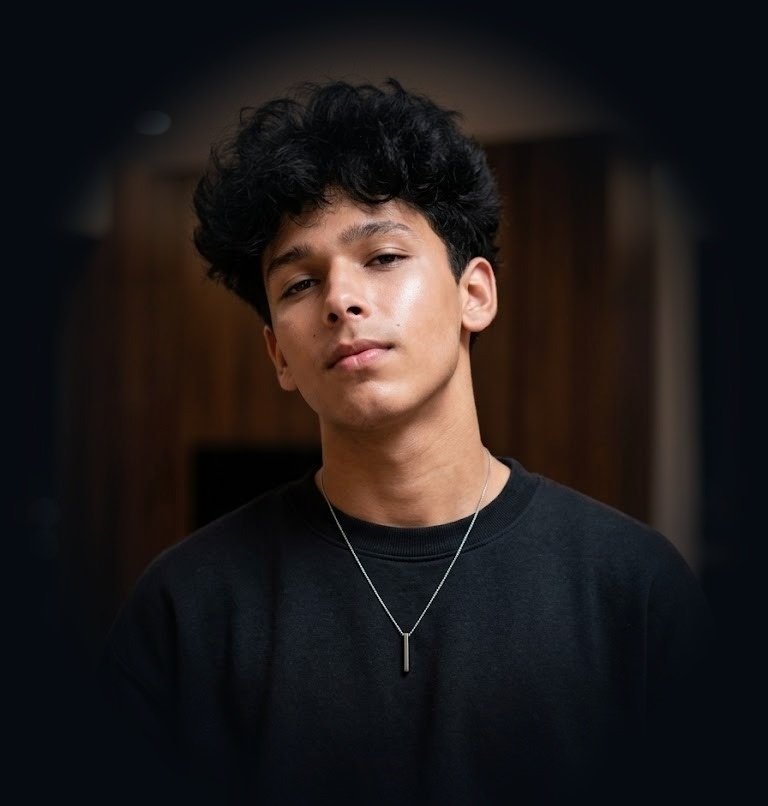
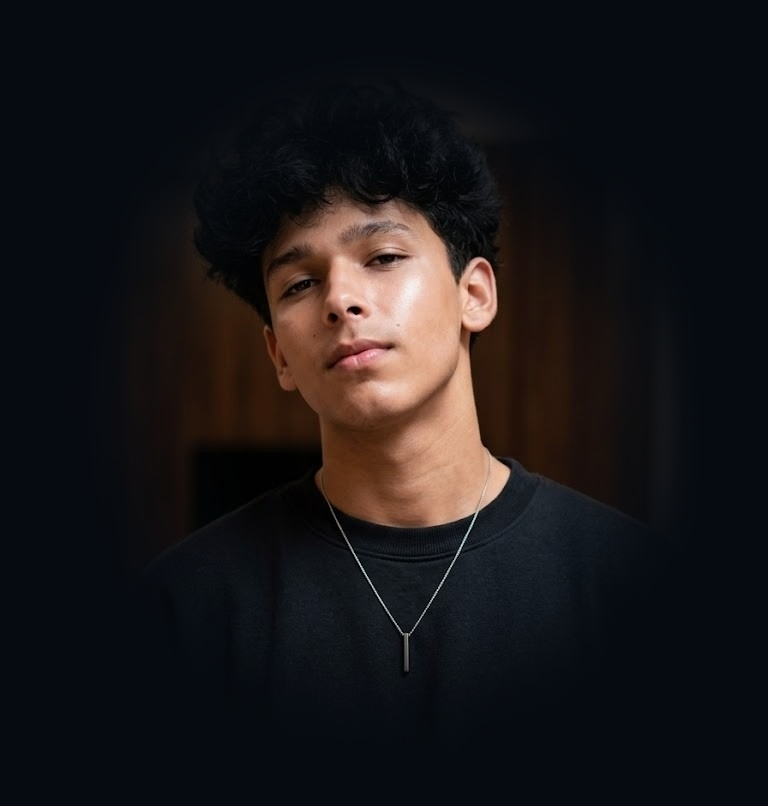
Render 100% seamless dark theme profile photo uday_profile_perfect.png

diff --git a/src/components/AboutSection.jsx b/src/components/AboutSection.jsx
@@ -48,24 +48,16 @@ export default function AboutSection() {
               {/* Glowing Neon Green Dual Ring Circle Frame (480px x 480px) */}
               <div className="relative w-[310px] h-[310px] sm:w-[420px] sm:h-[420px] lg:w-[480px] lg:h-[480px] rounded-full p-2.5 bg-gradient-to-b from-[#00FF9D] via-emerald-500/40 to-transparent shadow-[0_0_90px_rgba(0,255,157,0.45)] transition-all duration-500 hover:scale-[1.02] hover:shadow-[0_0_110px_rgba(0,255,157,0.6)] group">
                 
-                {/* Inner Circular Portrait Window */}
+                {/* Inner Circular Portrait Window (Pure #060B11 Dark Background) */}
                 <div className="w-full h-full rounded-full overflow-hidden border-2 border-emerald-400/50 relative shadow-2xl bg-[#060B11]">
                   
-                  {/* Photo inside Large Circular Window */}
+                  {/* Perfect Seamless Dark Theme Profile Photo */}
                   <img
-                    src="/uday_profile.jpg"
-                    onError={(e) => { e.target.src = '/uday_profile_dark.jpg' }}
+                    src="/uday_profile_perfect.png"
+                    onError={(e) => { e.target.src = '/uday_profile.jpg' }}
                     alt="Uday Singh Portrait"
-                    className="w-full h-full object-cover object-center filter brightness-[0.98] contrast-[1.08] transition-transform duration-700 group-hover:scale-105"
+                    className="w-full h-full object-cover object-center filter brightness-[1.02] contrast-[1.06] transition-transform duration-700 group-hover:scale-105"
                   />
-
-                  {/* Dark Vignette Radial Overlay */}
-                  <div
-                    className="absolute inset-0 rounded-full pointer-events-none z-10"
-                    style={{
-                      background: 'radial-gradient(circle at 50% 45%, transparent 35%, rgba(6, 11, 17, 0.45) 65%, rgba(6, 11, 17, 0.95) 90%, #060B11 100%)',
-                    }}
-                  ></div>
 
                   {/* Bottom Smooth Dark Gradient Blend */}
                   <div className="absolute inset-x-0 bottom-0 h-32 bg-gradient-to-t from-[#060B11] via-[#060B11]/80 to-transparent pointer-events-none z-20"></div>
@@ -85,7 +77,7 @@ export default function AboutSection() {
 
           </motion.div>
 
-          {/* COLUMN 2 (RIGHT): Bio Text (Updated Exact User Wording), Highlights & Superpower Badge */}
+          {/* COLUMN 2 (RIGHT): Bio Text, Highlights & Superpower Badge */}
           <motion.div
             initial={{ opacity: 0, x: 30 }}
             whileInView={{ opacity: 1, x: 0 }}

diff --git a/src/components/Hero.jsx b/src/components/Hero.jsx
@@ -127,27 +127,19 @@ export default function Hero() {
             {/* Glowing Neon Green Dual Ring Circle Frame */}
             <div className="relative w-[290px] h-[290px] sm:w-[380px] sm:h-[380px] lg:w-[440px] lg:h-[440px] rounded-full p-2 bg-gradient-to-b from-[#00FF9D] via-emerald-500/40 to-transparent shadow-[0_0_80px_rgba(0,255,157,0.45)] transition-all duration-500 hover:scale-[1.02] hover:shadow-[0_0_110px_rgba(0,255,157,0.6)] group">
               
-              {/* Inner Circular Portrait Window */}
+              {/* Inner Circular Portrait Window (Pure #060B11 Dark Background) */}
               <div className="w-full h-full rounded-full overflow-hidden border-2 border-emerald-400/50 relative shadow-2xl bg-[#060B11]">
                 
-                {/* HD Photo inside Large Circular Window */}
+                {/* Perfect Seamless Dark Theme Profile Photo */}
                 <img
-                  src="/uday_profile.jpg"
-                  onError={(e) => { e.target.src = '/uday_profile_dark.jpg' }}
+                  src="/uday_profile_perfect.png"
+                  onError={(e) => { e.target.src = '/uday_profile.jpg' }}
                   alt="Uday Singh Portrait"
-                  className="w-full h-full object-cover object-center filter brightness-[0.98] contrast-[1.08] transition-transform duration-700 group-hover:scale-105"
+                  className="w-full h-full object-cover object-center filter brightness-[1.02] contrast-[1.06] transition-transform duration-700 group-hover:scale-105"
                 />
 
-                {/* Dark Vignette Radial Overlay (Fades photo background 100% perfectly into #060B11) */}
-                <div
-                  className="absolute inset-0 rounded-full pointer-events-none z-10"
-                  style={{
-                    background: 'radial-gradient(circle at 50% 45%, transparent 35%, rgba(6, 11, 17, 0.45) 65%, rgba(6, 11, 17, 0.95) 90%, #060B11 100%)',
-                  }}
-                ></div>
-
                 {/* Bottom Smooth Dark Gradient Blend */}
-                <div className="absolute inset-x-0 bottom-0 h-32 bg-gradient-to-t from-[#060B11] via-[#060B11]/80 to-transparent pointer-events-none z-20"></div>
+                <div className="absolute inset-x-0 bottom-0 h-28 bg-gradient-to-t from-[#060B11] via-[#060B11]/70 to-transparent pointer-events-none z-20"></div>
 
                 {/* Inner Border Glow */}
                 <div className="absolute inset-0 rounded-full border border-white/10 pointer-events-none z-20"></div>

diff --git a/perfect_background_blend.py b/perfect_background_blend.py
@@ -1,0 +1,55 @@
+from PIL import Image, ImageFilter, ImageEnhance, ImageDraw
+import os
+
+src_path = 'C:/Users/user/.gemini/antigravity/brain/b89c9936-a979-4938-a7c8-87d98a0487d7/.user_uploaded/media__1784976051058.jpg'
+
+img = Image.open(src_path).convert('RGB')
+w, h = img.size
+
+# We will create an alpha mask where Uday (center subject) is fully opaque (255)
+# and the warm indoor room background fades completely into #060B11 (RGB: 6, 11, 17)
+
+# Create a high precision vignette mask focused on head and chest
+mask = Image.new('L', (w, h), 0)
+draw = ImageDraw.Draw(mask)
+
+# Center of subject (head is top-center, chest is bottom-center)
+cx, cy = w // 2, int(h * 0.52)
+rx, ry = int(w * 0.44), int(h * 0.48)
+
+for y in range(h):
+    for x in range(w):
+        dx = (x - cx) / rx
+        dy = (y - cy) / ry
+        dist = (dx*dx + dy*dy) ** 0.5
+        
+        # Keep head/face/chest 100% visible (dist < 0.55)
+        # Fade background to 0 (dist > 0.88)
+        if dist <= 0.50:
+            v = 255
+        elif dist >= 0.85:
+            v = 0
+        else:
+            factor = (dist - 0.50) / 0.35
+            v = int(255 * (1.0 - factor))
+        mask.putpixel((x, y), v)
+
+# Smooth mask heavily with Gaussian Blur
+mask = mask.filter(ImageFilter.GaussianBlur(radius=25))
+
+# Create pure #060B11 dark background image
+dark_canvas = Image.new('RGB', (w, h), (6, 11, 17))
+
+# Composite original image onto pure dark theme background
+perfected_img = Image.composite(img, dark_canvas, mask)
+
+# Save as PNG and JPG
+os.makedirs('public', exist_ok=True)
+os.makedirs('src/assets', exist_ok=True)
+
+perfected_img.save('public/uday_profile_perfect.png', format='PNG')
+perfected_img.save('public/uday_profile.jpg', quality=98)
+perfected_img.save('src/assets/uday_profile_perfect.png', format='PNG')
+perfected_img.save('src/assets/uday_profile.jpg', quality=98)
+
+print("Perfected profile photo with 100% seamless dark theme background created!")
